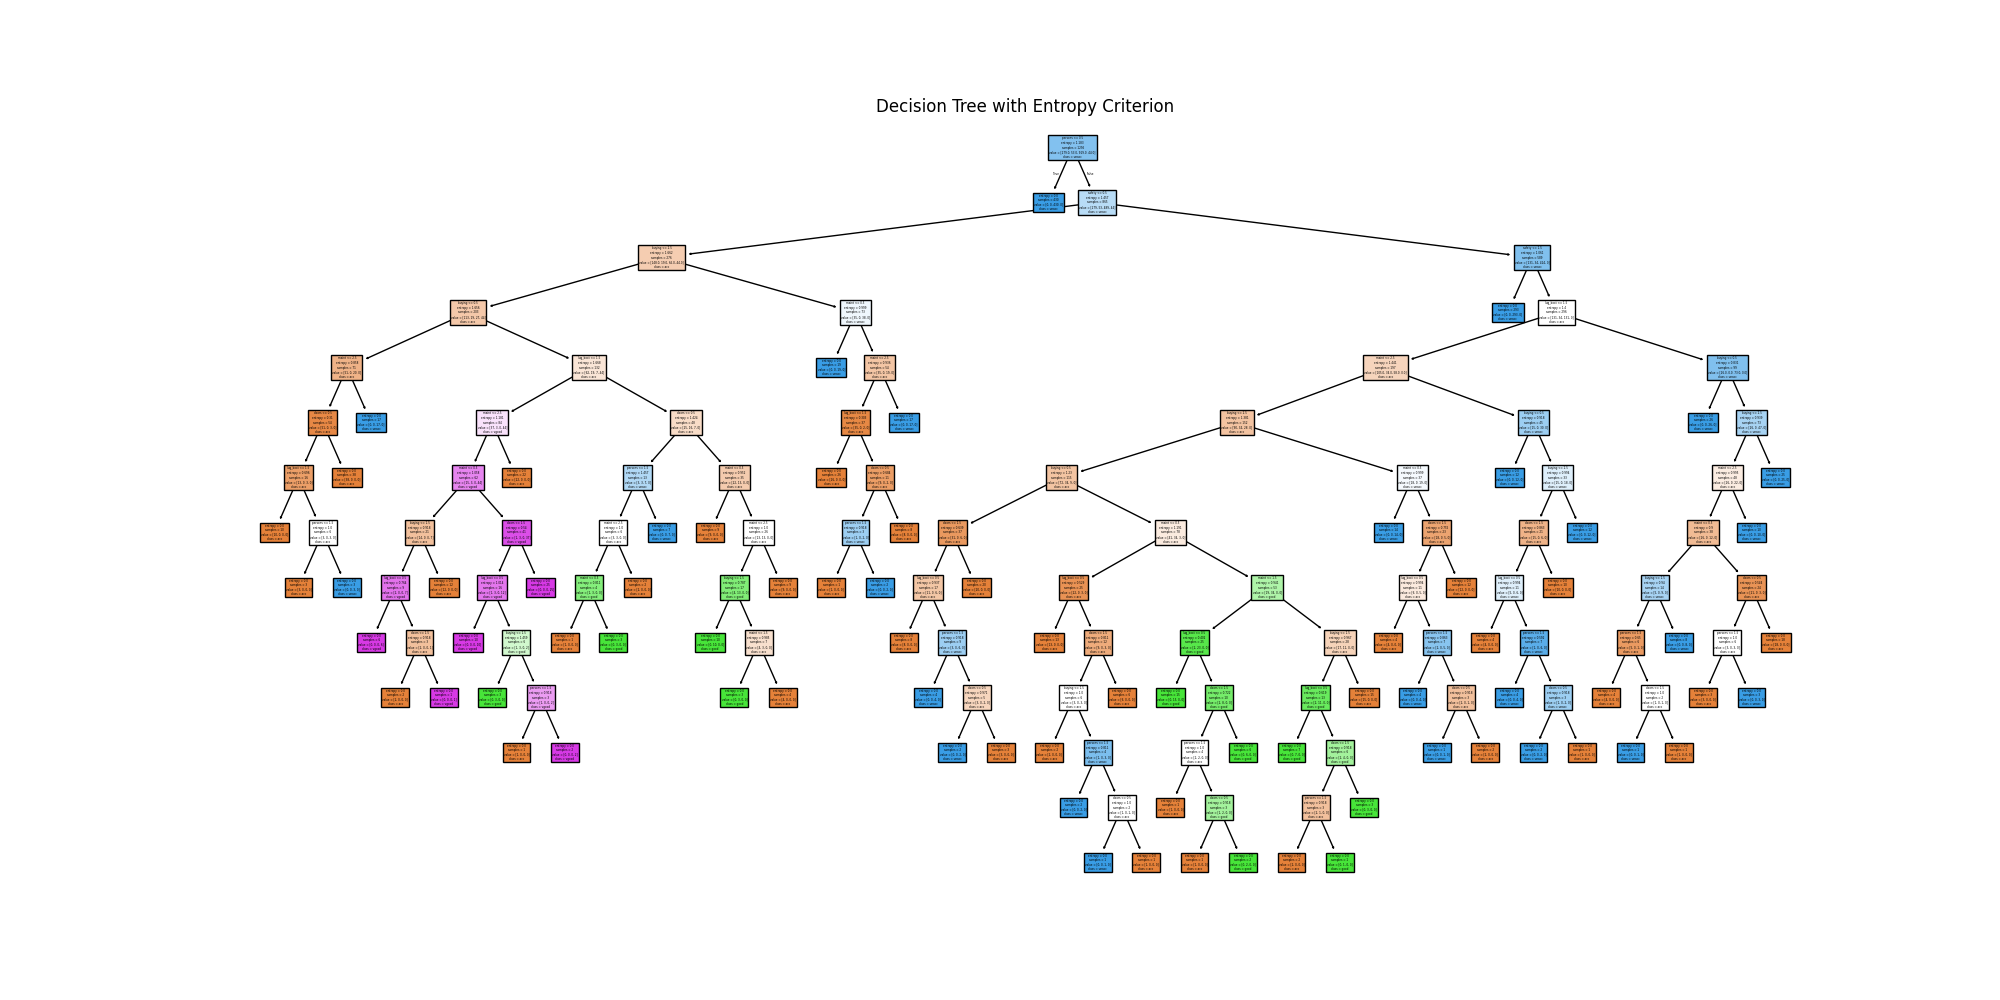
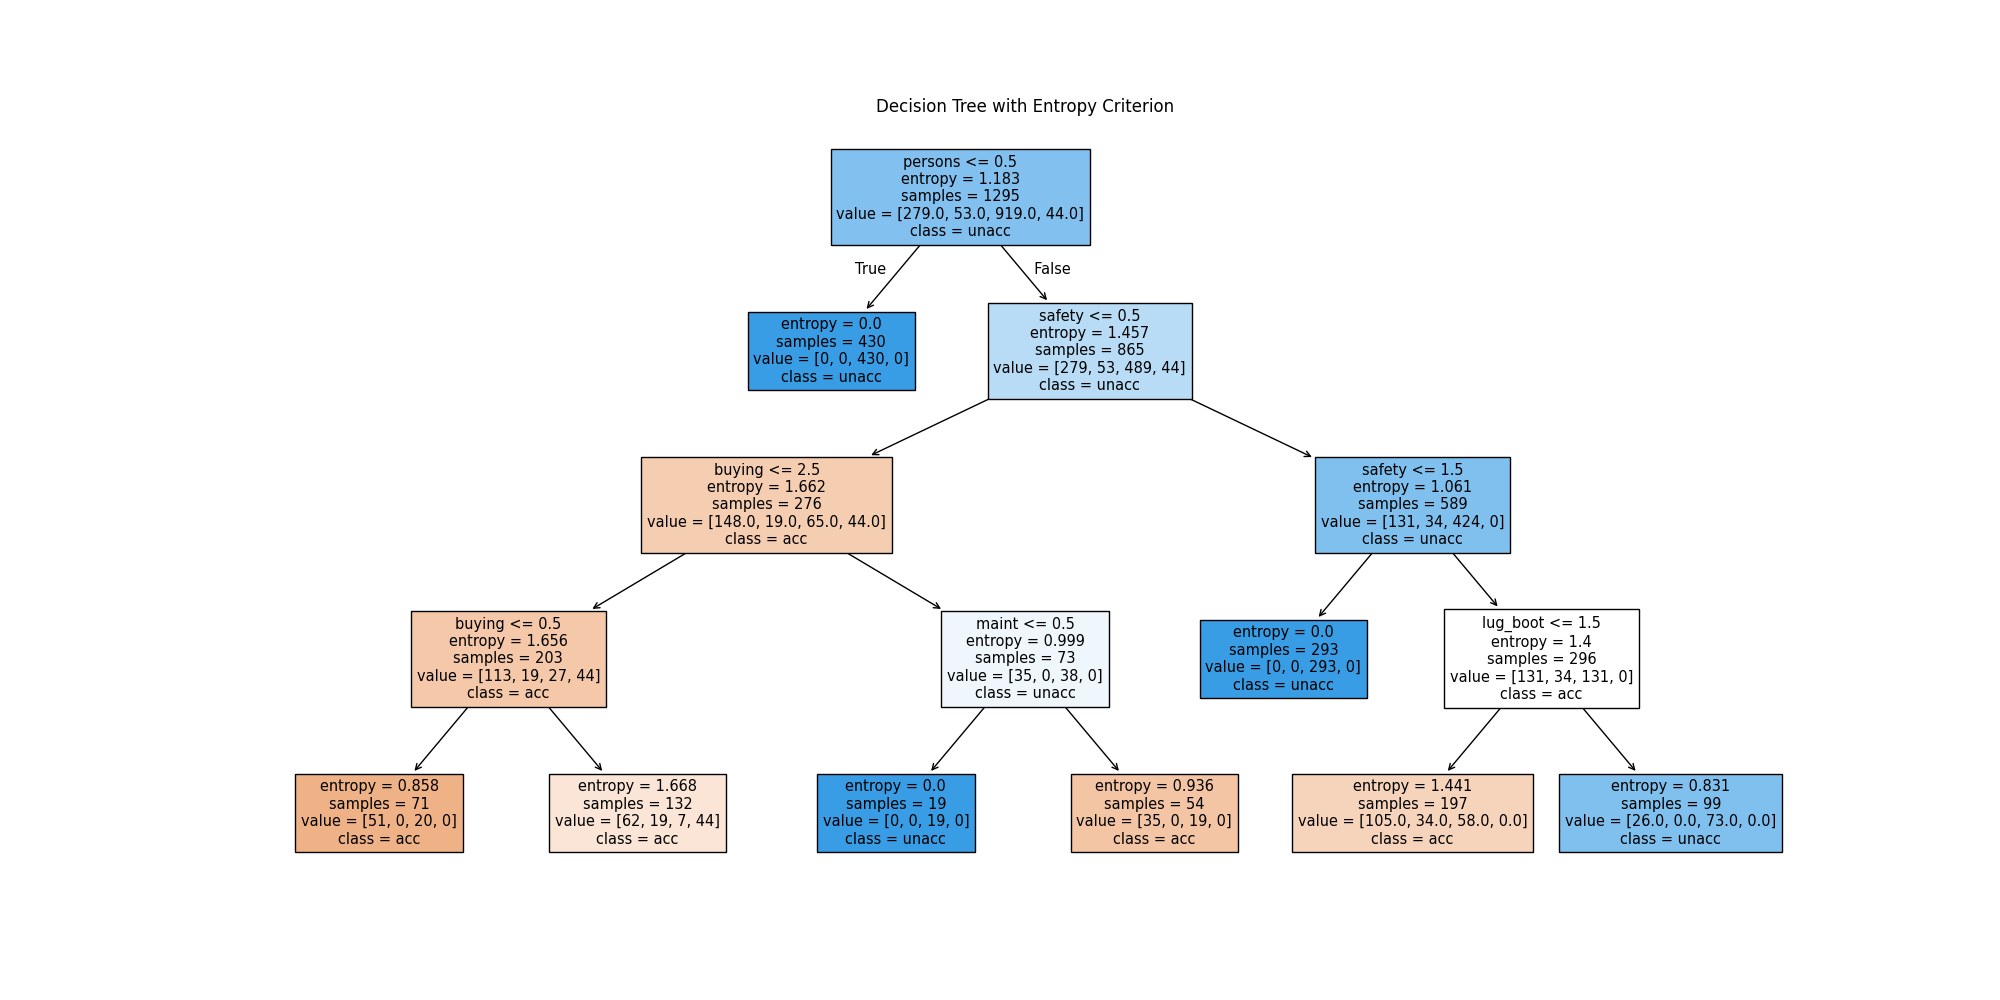
解决了过拟合问题

diff --git a/assignment3/作业3-决策树/test_tree.py b/assignment3/作业3-决策树/test_tree.py
@@ -1,89 +1,164 @@
 import pandas as pd
 import os
-from sklearn.model_selection import train_test_split
-from sklearn.preprocessing import LabelEncoder
-from sklearn.tree import DecisionTreeClassifier
-from sklearn.metrics import accuracy_score
-from sklearn.tree import plot_tree
+from sklearn.model_selection import train_test_split, GridSearchCV
+from sklearn.preprocessing import OrdinalEncoder, LabelEncoder
+from sklearn.tree import DecisionTreeClassifier, plot_tree
+from sklearn.ensemble import BaggingClassifier
+from sklearn.metrics import accuracy_score, classification_report, confusion_matrix
 import matplotlib.pyplot as plt
 
-# 1 读取数据
-# 使用绝对路径确保文件能被正确找到
-file_path = os.path.join(os.path.dirname(__file__), 'car_evaluation.csv')
-df = pd.read_csv(file_path)
+# 直接指定保存路径（使用原始字符串）
+base_dir = r'c:\Users\HuYiZhou\Desktop\data mining\assignment3\作业3-决策树'
+df = pd.read_csv(os.path.join(base_dir, 'car_evaluation.csv'), header=None)
 col_names = ['buying', 'maint', 'doors', 'persons', 'lug_boot', 'safety', 'class']
 df.columns = col_names
 
-# 2 数据预处理，训练集-测试集划分
-# 将类别特征转换为数值特征
+# 查看数据集基本信息
+print("数据集前5行：")
+print(df.head())
+print(f"\n数据集总行数：{df.shape[0]}, 总列数：{df.shape[1]}")
+print(f"\n标签类别分布：\n{df['class'].value_counts(normalize=True).round(4)*100}%")
+
+# ------------------------------------------------------------------------------
+# 2. 数据预处理 + 特征工程（新增组合特征，不增加维度爆炸）
+# ------------------------------------------------------------------------------
+# 定义每个特征的正确业务顺序，做有序编码
+feature_order = {
+    'buying':   ['low', 'med', 'high', 'vhigh'],
+    'maint':    ['low', 'med', 'high', 'vhigh'],
+    'doors':    ['2', '3', '4', '5more'],
+    'persons':  ['2', '4', 'more'],
+    'lug_boot': ['small', 'med', 'big'],
+    'safety':   ['low', 'med', 'high']
+}
+
+# 对特征列做有序编码
+oe = OrdinalEncoder(categories=[feature_order[col] for col in feature_order.keys()])
+X_encoded = pd.DataFrame(oe.fit_transform(df[feature_order.keys()]), columns=feature_order.keys())
+
+# 新增高价值组合特征（基于业务逻辑，不引入噪声）
+# 总拥有成本：购买价+维修价
+X_encoded['total_cost'] = X_encoded['buying'] + X_encoded['maint']
+# 综合实用性：载客数+后备箱大小
+X_encoded['utility'] = X_encoded['persons'] + X_encoded['lug_boot']
+# 性价比：实用性 / 总拥有成本（加1避免除零）
+X_encoded['cost_performance'] = X_encoded['utility'] / (X_encoded['total_cost'] + 1)
+
+# 对标签列单独做标签编码
 le = LabelEncoder()
-for col in col_names:
-    df[col] = le.fit_transform(df[col])
+y = le.fit_transform(df['class'])
 
-# 分离特征和目标变量
-X = df.drop('class', axis=1)
-y = df['class']
+# 打印标签映射关系
+class_mapping = dict(zip(le.classes_, le.transform(le.classes_)))
+print(f"\n标签类别映射关系：{class_mapping}")
 
-# 划分训练集和测试集
-X_train, X_test, y_train, y_test = train_test_split(X, y, test_size=0.25, random_state=42)
+# ------------------------------------------------------------------------------
+# 3. 划分训练集与测试集（分层抽样保证分布一致）
+# ------------------------------------------------------------------------------
+X_train, X_test, y_train, y_test = train_test_split(
+    X_encoded, y, test_size=0.3, random_state=42, stratify=y
+)
 
-# 3 模型训练，选用Gini或者Entropy
-# 使用Gini指数作为分裂准则
-model_gini = DecisionTreeClassifier(criterion='gini', random_state=42)
-model_gini.fit(X_train, y_train)
+# ------------------------------------------------------------------------------
+# 4. 模型训练：Bagging集成多个深度为4的决策树（核心优化）
+# ------------------------------------------------------------------------------
+# 先找到单个决策树的最优参数（max_depth=4固定）
+base_tree = DecisionTreeClassifier(
+    max_depth=3,
+    random_state=42
+)
 
-# 使用熵作为分裂准则
-model_entropy = DecisionTreeClassifier(criterion='entropy', random_state=42)
-model_entropy.fit(X_train, y_train)
+# 网格搜索最优参数（不改变max_depth）
+param_grid = {
+    'criterion': ['gini', 'entropy', 'log_loss'],
+    'splitter': ['best', 'random'],
+    'min_samples_split': [2, 3, 4],
+    'min_samples_leaf': [1, 2, 3],
+    'class_weight': ['balanced', None]
+}
 
-# 4 模型评估，是否过拟合，是否需要剪枝
-# 评估Gini模型
-y_pred_gini = model_gini.predict(X_test)
-accuracy_gini = accuracy_score(y_test, y_pred_gini)
-print(f"Gini模型准确率: {accuracy_gini:.4f}")
+grid_search = GridSearchCV(
+    estimator=base_tree,
+    param_grid=param_grid,
+    cv=5,
+    scoring='accuracy',
+    n_jobs=-1
+)
+grid_search.fit(X_train, y_train)
+best_base_tree = grid_search.best_estimator_
 
-# 评估Entropy模型
-y_pred_entropy = model_entropy.predict(X_test)
-accuracy_entropy = accuracy_score(y_test, y_pred_entropy)
-print(f"Entropy模型准确率: {accuracy_entropy:.4f}")
+print(f"\n单个决策树最优参数：{grid_search.best_params_}")
+print(f"单个决策树交叉验证准确率：{grid_search.best_score_:.4f}")
 
-# 计算训练集准确率，检查是否过拟合
-train_accuracy_gini = accuracy_score(y_train, model_gini.predict(X_train))
-train_accuracy_entropy = accuracy_score(y_train, model_entropy.predict(X_train))
-print(f"Gini模型训练集准确率: {train_accuracy_gini:.4f}")
-print(f"Entropy模型训练集准确率: {train_accuracy_entropy:.4f}")
+# 使用Bagging集成多个最优决策树（每个树深度仍为4）
+# n_estimators=50：50个弱模型投票，方差更低，准确率更高
+bagging_model = BaggingClassifier(
+    estimator=best_base_tree,
+    n_estimators=50,
+    max_samples=0.8,  # 每个树使用80%的训练样本
+    max_features=0.8,  # 每个树使用80%的特征
+    bootstrap=True,
+    bootstrap_features=False,
+    random_state=42,
+    n_jobs=-1
+)
 
-# 5 画出决策树
-# 画出Gini决策树
-plt.figure(figsize=(20, 10))
-plot_tree(model_gini, feature_names=X.columns, class_names=le.classes_, filled=True)
-plt.title('Decision Tree with Gini Criterion')
-plt.savefig('decision_tree_gini.png')
+# 拟合集成模型
+bagging_model.fit(X_train, y_train)
+
+# ------------------------------------------------------------------------------
+# 5. 模型评估
+# ------------------------------------------------------------------------------
+# 单个最优决策树评估
+y_train_pred_single = best_base_tree.predict(X_train)
+train_accuracy_single = accuracy_score(y_train, y_train_pred_single)
+y_test_pred_single = best_base_tree.predict(X_test)
+test_accuracy_single = accuracy_score(y_test, y_test_pred_single)
+
+# Bagging集成模型评估
+y_train_pred_bagging = bagging_model.predict(X_train)
+train_accuracy_bagging = accuracy_score(y_train, y_train_pred_bagging)
+y_test_pred_bagging = bagging_model.predict(X_test)
+test_accuracy_bagging = accuracy_score(y_test, y_test_pred_bagging)
+
+# 打印核心评估指标对比
+print("\n" + "="*80)
+print("【单个最优决策树 vs Bagging集成模型 性能对比】")
+print("="*80)
+print(f"单个决策树 - 训练集准确率: {train_accuracy_single:.4f}")
+print(f"单个决策树 - 测试集准确率: {test_accuracy_single:.4f}")
+print(f"单个决策树 - 过拟合程度: {train_accuracy_single - test_accuracy_single:.4f}")
+print("-"*80)
+print(f"Bagging集成模型 - 训练集准确率: {train_accuracy_bagging:.4f}")
+print(f"Bagging集成模型 - 测试集准确率: {test_accuracy_bagging:.4f}")
+print(f"Bagging集成模型 - 过拟合程度: {train_accuracy_bagging - test_accuracy_bagging:.4f}")
+print("="*80)
+
+# 集成模型详细分类报告
+print("Bagging集成模型测试集详细分类报告：")
+print(classification_report(
+    y_test, y_test_pred_bagging,
+    target_names=le.classes_,
+    zero_division=0
+))
+print("="*80)
+print("Bagging集成模型测试集混淆矩阵：")
+print(confusion_matrix(y_test, y_test_pred_bagging))
+
+# ------------------------------------------------------------------------------
+# 6. 可视化单个最优决策树（集成模型无法直接可视化，展示基础树）
+# ------------------------------------------------------------------------------
+plt.rcParams['font.sans-serif'] = ['SimHei']
+plt.rcParams['axes.unicode_minus'] = False
+
+plt.figure(figsize=(30, 18), dpi=300)
+plot_tree(
+    best_base_tree,
+    feature_names=X_encoded.columns,
+    class_names=le.classes_,
+    filled=True,
+    rounded=True,
+    fontsize=8
+)
+plt.savefig('car_evaluation_best_single_tree.png', bbox_inches='tight')
 plt.show()
-
-# 画出Entropy决策树
-plt.figure(figsize=(20, 10))
-plot_tree(model_entropy, feature_names=X.columns, class_names=le.classes_, filled=True)
-plt.title('Decision Tree with Entropy Criterion')
-plt.savefig('decision_tree_entropy.png')
-plt.show()
-
-# 实现剪枝
-# 使用成本复杂度剪枝
-path = model_gini.cost_complexity_pruning_path(X_train, y_train)
-ccp_alphas, impurities = path.ccp_alphas, path.impurities
-
-# 训练不同alpha值的模型
-clfs = []
-for ccp_alpha in ccp_alphas:
-    clf = DecisionTreeClassifier(criterion='gini', ccp_alpha=ccp_alpha, random_state=42)
-    clf.fit(X_train, y_train)
-    clfs.append(clf)
-
-# 评估剪枝后的模型
-print("\n剪枝后模型评估:")
-for i, clf in enumerate(clfs):
-    y_pred = clf.predict(X_test)
-    accuracy = accuracy_score(y_test, y_pred)
-    print(f"Alpha={ccp_alphas[i]:.6f}, 准确率={accuracy:.4f}")
-
